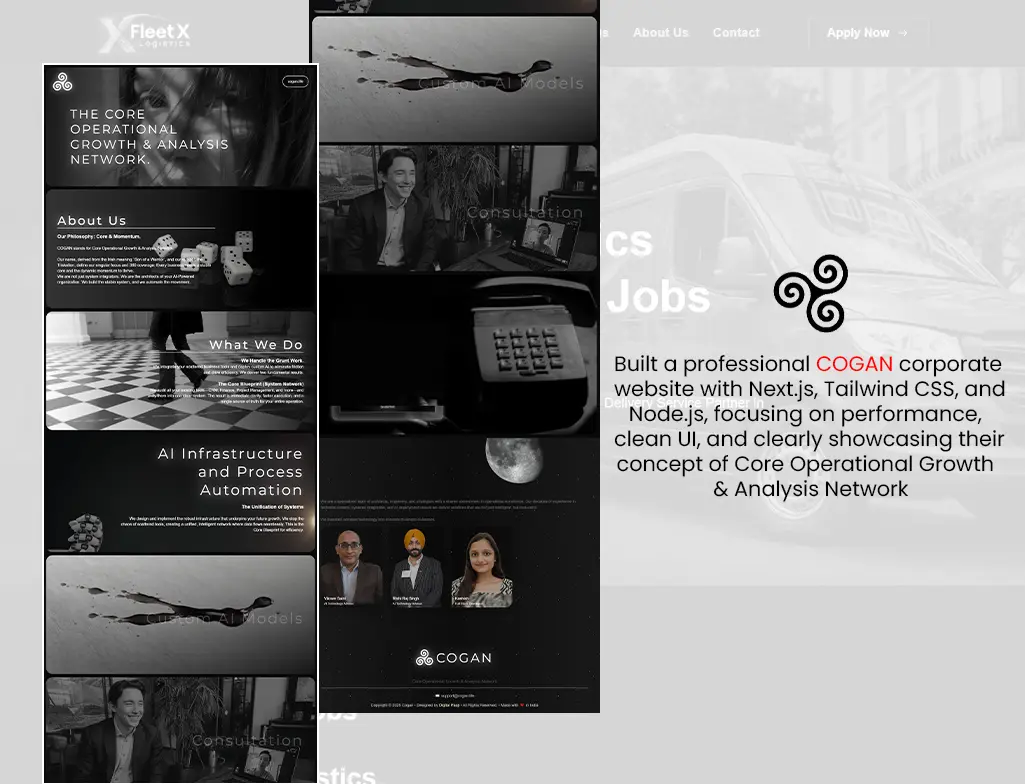
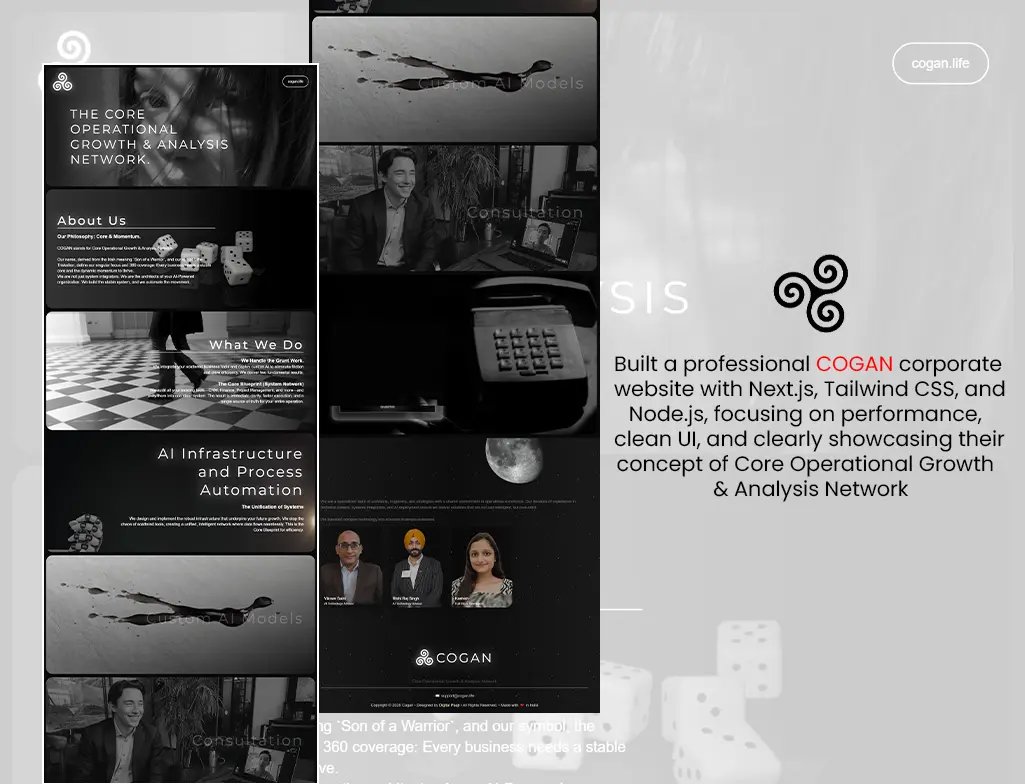
Ad

diff --git a/src/app/portfolio/page.js b/src/app/portfolio/page.js
@@ -55,7 +55,7 @@ const serviceItems = [
     coverImg: "/Images/portfolio/reels/cover.gif",
     gallery: [
       //  {type:"video",url:"https://www.youtube.com/embed/uuxJIG1BdlQ"},
-       {type:"video",url:"https://www.youtube.com/embed/wkzZgrQTddc"},
+       {type:"video",url:"https://www.youtube.com/embed/wkzZgrQTddc", },
        {type:"video",url:"https://www.youtube.com/embed/cNCMM5vc_0k"},
        
        {type:"video",url:"https://www.youtube.com/embed/6jiW_UAvE38",thumb:"saajriwaj1.webp"},
@@ -106,7 +106,7 @@ const serviceItems = [
     gallery: [
       { type: "image", url: "/Images/portfolio/website/1.webp" },
       { type: "image", url: "/Images/portfolio/website/7.webp" },
-      { type: "image", url: "/Images/portfolio/website/8.webp" },
+      // { type: "image", url: "/Images/portfolio/website/8.webp" },
       { type: "image", url: "/Images/portfolio/website/9.webp" },
       { type: "image", url: "/Images/portfolio/website/10.webp" },
       { type: "image", url: "/Images/portfolio/website/11.webp" },

diff --git a/src/app/components/portfolio/GraphicGallery.jsx b/src/app/components/portfolio/GraphicGallery.jsx
@@ -9,7 +9,8 @@ export default function GraphicGallery({ allItems, initialTab, setFilter }) {
     "Restraunt Food Shoot",
     "YouTube Thumbnails",
     "Visiting Cards",
-    "Packaging Designs"
+    "Packaging Designs",
+    // "Logo Designs"
   ];
 
   const [selectedAsset, setSelectedAsset] = useState(null);
